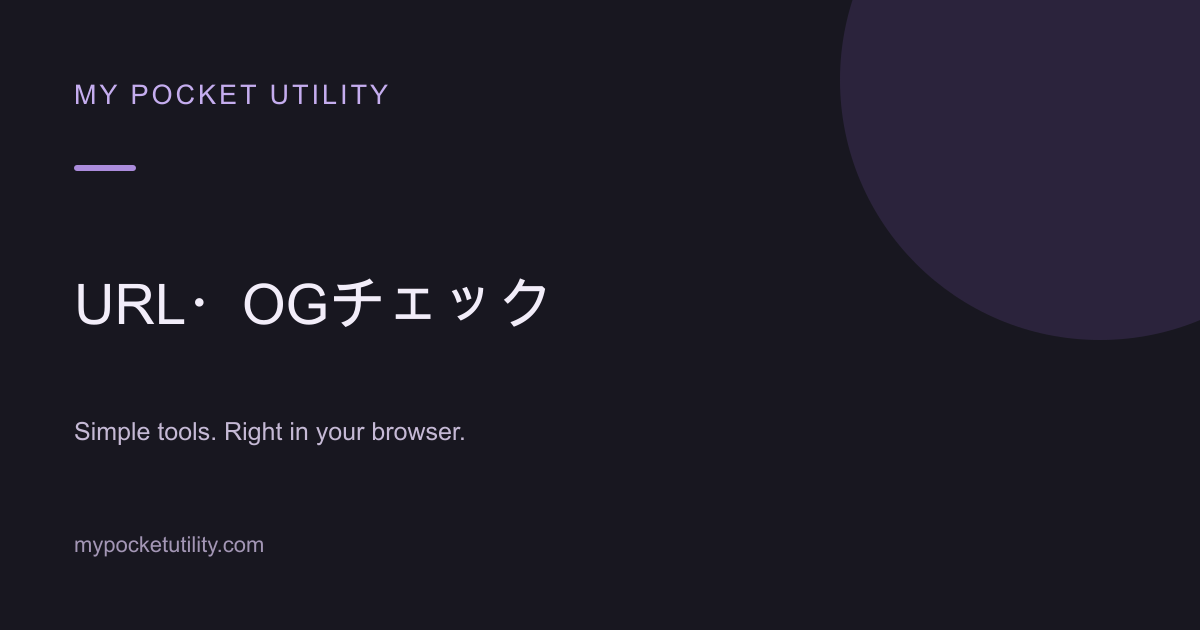
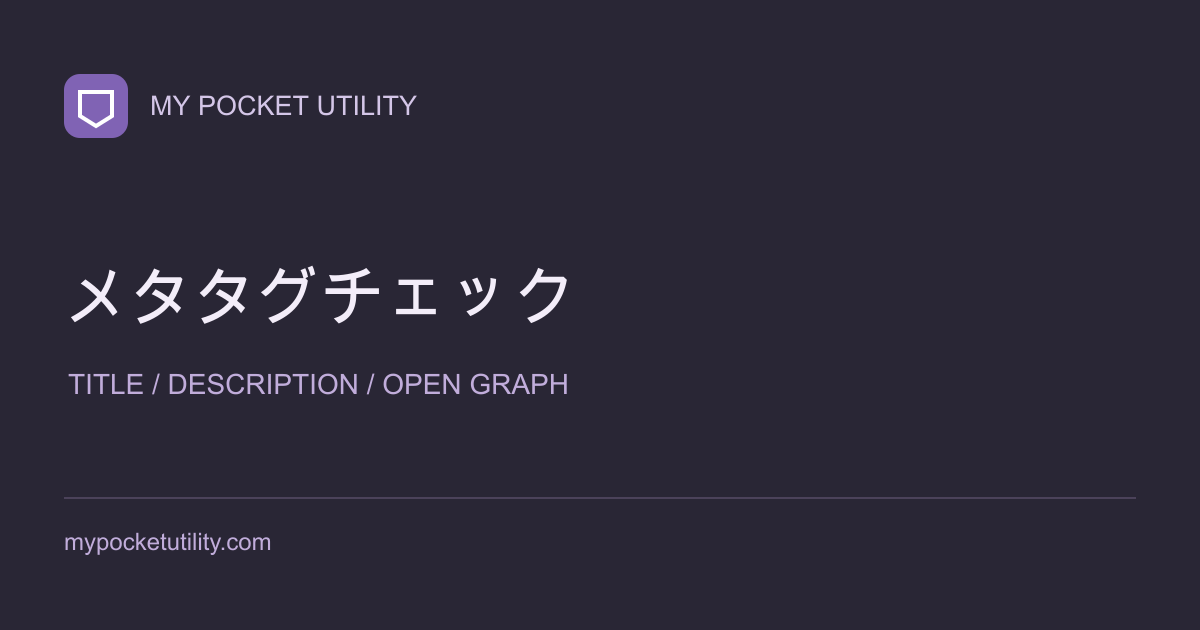
Refine compact UI, add pocket branding and Lorem generator, fix server lookups

diff --git a/src/App.tsx b/src/App.tsx
@@ -1,3 +1,4 @@
+import LoremGenerator from './LoremGenerator';
 import UrlExpander from './UrlExpander';
 import CharacterCounter from './CharacterCounter';
 import UrlLinter from './UrlLinter';
@@ -5,7 +6,7 @@ import ToolDirectory, {FavoriteButton, recordTool, openToolSearch} from './ToolD
 import {rememberLanguage} from './language-preference.mjs';
 import { t as tr, locale, getLanguage } from "./i18n.mjs";
 import { guides, guideHTML } from './guides.mjs';
-import { getRoute, getQuery, routeHref, navigate, installRouting } from './routing.mjs';
+import { getRoute, getQuery, routeHref, siteBase, navigate, installRouting } from './routing.mjs';
 import { useEffect, useState } from 'react';
 import { ArrowRight, ArrowUpRight, ArrowLeft, Search, Image, CalendarDays, Smartphone, ChevronLeft, ChevronRight, Copy, Check, Command, FolderSync, Moon, Sun, Type, Shapes, Coins, Ruler, FileImage, Timer, FileCode2 } from 'lucide-react';
 import Converter from './Converter';
@@ -20,7 +21,7 @@ import {dateLabel} from './i18n.mjs';
 import {normalizeWeekQuery} from './week-input.mjs';
 import { holidayName } from './holidays.mjs';
 import { koreaToday, isoWeek, searchWeek, dateKey, addDays, fromWeek, weeksInYear } from './week.mjs';
-const tools = [{id:'url-expander',name:'단축 URL 풀기',english:'URL EXPANDER',category:'텍스트·경로',text:'최종 주소와 광고·추적 파라미터를 확인하세요.',Icon:Search,color:'blue',tags:['URL','파라미터']},{id:'character-counter',name:'글자수 계산기',english:'CHARACTER COUNTER',category:'텍스트·경로',text:'글자수부터 한글 2바이트 환산·UTF-8 용량까지 한눈에.',Icon:Search,color:'purple',tags:['UTF-8','바이트']},{id:'url-linter',name:'URL·OG 검사',english:'URL LINTER',category:'텍스트·경로',text:'공유 전 제목·설명·이미지를 확인하세요.',Icon:Search,color:'blue',tags:['Open Graph','HTML 검사']},{
+const tools = [{id:'lorem-ipsum',name:'Lorem ipsum 생성기',english:'LOREM IPSUM GENERATOR',category:'텍스트·경로',text:'한글·영어·일본어 예시 문장을 간편하게 생성하세요.',Icon:Type,color:'purple',tags:['KO / EN / JA']},{id:'url-expander',name:'단축 URL 풀기',english:'URL EXPANDER',category:'텍스트·경로',text:'최종 주소와 광고·추적 파라미터를 확인하세요.',Icon:Search,color:'blue',tags:['URL','파라미터']},{id:'character-counter',name:'글자수 계산기',english:'CHARACTER COUNTER',category:'텍스트·경로',text:'글자수부터 한글 2바이트 환산·UTF-8 용량까지 한눈에.',Icon:Search,color:'purple',tags:['UTF-8','바이트']},{id:'url-linter',name:'메타태그 검사',english:'META TAG CHECKER',category:'텍스트·경로',text:'공유 전 제목·설명·이미지를 확인하세요.',Icon:Search,color:'blue',tags:['Open Graph','HTML 검사']},{
   id: 'markdown',
   name: '마크다운 변환',
   english: 'MARKDOWN CONVERTER',
@@ -218,7 +219,7 @@ function WeekNumber({
 
 function Navigation({route,language}:{route:string;language:string}){
  useEffect(()=>{const close=(e:any)=>{if(e.type==='keydown'&&e.key!=='Escape')return;if(e.type==='click'&&e.target.closest('.category-nav')&&!e.target.closest('a'))return;document.querySelectorAll('.category-nav details[open]').forEach(d=>d.removeAttribute('open'))};document.addEventListener('click',close);document.addEventListener('keydown',close);return()=>{document.removeEventListener('click',close);document.removeEventListener('keydown',close)}},[]);
- return <><a className="skip-link" href="#main-content">{tr('본문으로 이동')}</a><header className="site-header"><div className="nav-inner"><a className="logo" href={routeHref()}><span className="logo-mark"><Command size={22}/></span>MY POCKET <span>UTILITY</span><em>BETA</em></a><nav className="category-nav" aria-label={tr('주요 메뉴')}><a href={routeHref()} aria-current={route==='home'?'page':undefined}>{tr('모든 도구')}</a>{['이미지','날짜·시간','텍스트·경로','계산·변환'].map(cat=><details key={cat} onToggle={e=>{if(e.currentTarget.open)document.querySelectorAll('.category-nav details[open]').forEach(d=>{if(d!==e.currentTarget)d.removeAttribute('open')})}}><summary className={tools.find(tool=>tool.id===route)?.category===cat?'active':''}>{tr(cat)}<ChevronRight size={12}/></summary><div className="category-dropdown">{tools.filter(tool=>tool.category===cat).map(tool=><a key={tool.id} href={routeHref(tool.id)} aria-current={route===tool.id?'page':undefined}>{tr(tool.name)}</a>)}</div></details>)}</nav><div className="nav-actions"><button className="nav-search" onClick={openToolSearch} aria-label={tr("도구 검색")}><Search size={18}/></button><ThemeToggle/><label className="language-switch"><span className="sr-only">{tr('언어 선택')}</span><select value={language} aria-label={tr('언어 선택')} onChange={e=>{rememberLanguage(e.target.value);navigate(routeHref(route==='home'?'':route,getQuery(),e.target.value))}}><option value="ko" lang="ko">한국어</option><option value="en" lang="en">English</option><option value="ja" lang="ja">日本語</option></select></label></div></div></header></>;
+ return <><a className="skip-link" href="#main-content">{tr('본문으로 이동')}</a><header className="site-header"><div className="nav-inner"><a className="logo" href={routeHref()}><img className="brand-pocket" src={siteBase()+'icons/pocket-64.png'} width="34" height="34" alt=""/>MY POCKET <span>UTILITY</span><em>BETA</em></a><nav className="category-nav" aria-label={tr('주요 메뉴')}><a href={routeHref()} aria-current={route==='home'?'page':undefined}>{tr('모든 도구')}</a>{['이미지','날짜·시간','텍스트·경로','계산·변환'].map(cat=><details key={cat} onToggle={e=>{if(e.currentTarget.open)document.querySelectorAll('.category-nav details[open]').forEach(d=>{if(d!==e.currentTarget)d.removeAttribute('open')})}}><summary className={tools.find(tool=>tool.id===route)?.category===cat?'active':''}>{tr(cat)}<ChevronRight size={12}/></summary><div className="category-dropdown">{tools.filter(tool=>tool.category===cat).map(tool=><a key={tool.id} href={routeHref(tool.id)} aria-current={route===tool.id?'page':undefined}>{tr(tool.name)}</a>)}</div></details>)}</nav><div className="nav-actions"><button className="nav-search" onClick={openToolSearch} aria-label={tr("도구 검색")}><Search size={18}/></button><ThemeToggle/><label className="language-switch"><span className="sr-only">{tr('언어 선택')}</span><select value={language} aria-label={tr('언어 선택')} onChange={e=>{rememberLanguage(e.target.value);navigate(routeHref(route==='home'?'':route,getQuery(),e.target.value))}}><option value="ko" lang="ko">한국어</option><option value="en" lang="en">English</option><option value="ja" lang="ja">日本語</option></select></label></div></div></header></>;
 }
 
 export default function App() {
@@ -247,7 +248,7 @@ export default function App() {
   }, []);
 
   const selected = tools.find(t => t.id === route);
-  return <div className="site"><Navigation route={route} language={language}/><main className="shell" id="main-content">{tr(route === 'home' ? <ToolDirectory tools={tools}/> : selected ? <><nav className="breadcrumbs" aria-label={tr("탐색 경로")}><a href={routeHref()}>{tr("모든 도구")}</a><span aria-hidden="true">/</span><span aria-current="page">{tr(selected.name)}</span><FavoriteButton id={selected.id}/></nav>{tr(route === 'url-expander' ? <UrlExpander /> : route === 'character-counter' ? <CharacterCounter /> : route === 'url-linter' ? <UrlLinter /> : route === 'markdown' ? <MarkdownConverter /> : route === 'weeknumber' ? <WeekNumber query={query} /> : route === 'path-converter' ? <PathConverter /> : route === 'symbols' ? <Symbols /> : route === 'insta-fonts' ? <InstaFonts /> : route === 'currency' ? <CurrencyConverter /> : route === 'units' ? <UnitConverter /> : route === 'pdf-to-jpg' ? <PdfConverter /> : ['clock','timer','pomodoro'].includes(route) ? null : <><div className="tool-heading"><span className="eyebrow">{tr("IMAGE CONVERTER")}</span><h1>{tr("이미지 변환")}</h1><p>{tr("HEIC·WebP·JPG·PNG 이미지를 원하는 형식으로 변환하세요.")}</p></div><Converter kind={route as 'webp' | 'heic'} key={route} /></>)}</> : <div className="no-results"><h1>{tr("도구를 찾을 수 없어요.")}</h1><a href={routeHref()}>{tr("모든 도구로 돌아가기")}</a></div>)}<div hidden={!['clock','timer','pomodoro'].includes(route)}><ClockTimer mode={['clock','timer','pomodoro'].includes(route)?route:'clock'} showHeading={['clock','timer','pomodoro'].includes(route)}/></div>{tr(guides[route] && <div dangerouslySetInnerHTML={{
+  return <div className="site"><Navigation route={route} language={language}/><main className="shell" id="main-content">{tr(route === 'home' ? <ToolDirectory tools={tools}/> : selected ? <><nav className="breadcrumbs" aria-label={tr("탐색 경로")}><a href={routeHref()}>{tr("모든 도구")}</a><span aria-hidden="true">/</span><span aria-current="page">{tr(selected.name)}</span><FavoriteButton id={selected.id}/></nav>{tr(route === 'url-expander' ? <UrlExpander /> : route === 'character-counter' ? <CharacterCounter /> : route === 'lorem-ipsum' ? <LoremGenerator /> : route === 'url-linter' ? <UrlLinter /> : route === 'markdown' ? <MarkdownConverter /> : route === 'weeknumber' ? <WeekNumber query={query} /> : route === 'path-converter' ? <PathConverter /> : route === 'symbols' ? <Symbols /> : route === 'insta-fonts' ? <InstaFonts /> : route === 'currency' ? <CurrencyConverter /> : route === 'units' ? <UnitConverter /> : route === 'pdf-to-jpg' ? <PdfConverter /> : ['clock','timer','pomodoro'].includes(route) ? null : <><div className="tool-heading"><span className="eyebrow">{tr("IMAGE CONVERTER")}</span><h1>{tr("이미지 변환")}</h1><p>{tr("HEIC·WebP·JPG·PNG 이미지를 원하는 형식으로 변환하세요.")}</p></div><Converter kind={route as 'webp' | 'heic'} key={route} /></>)}</> : <div className="no-results"><h1>{tr("도구를 찾을 수 없어요.")}</h1><a href={routeHref()}>{tr("모든 도구로 돌아가기")}</a></div>)}<div hidden={!['clock','timer','pomodoro'].includes(route)}><ClockTimer mode={['clock','timer','pomodoro'].includes(route)?route:'clock'} showHeading={['clock','timer','pomodoro'].includes(route)}/></div>{tr(guides[route] && <div dangerouslySetInnerHTML={{
         __html: guideHTML(route,language)
       }} />)}{selected&&<section className="related-tools"><h2>{tr("관련 도구")}</h2><div>{tools.filter(tool=>tool.category===selected.category&&tool.id!==route).map(tool=><a key={tool.id} href={routeHref(tool.id)}>{tr(tool.name)}</a>)}</div></section>}</main><footer className="site-footer"><div><a href={routeHref()}>MY POCKET UTILITY</a><span>{tr("작은 도구, 더 편리한 일상.")}</span></div><span>© {tr(today.getUTCFullYear())} MY POCKET UTILITY</span></footer></div>;
 }

diff --git a/src/UrlLinter.tsx b/src/UrlLinter.tsx
@@ -8,8 +8,8 @@ export default function UrlLinter(){
  const reset=()=>{setResult(null);setError('');setImageOpen(false);setImageInfo('')};
  const inspect=(text:string,source:string)=>{setImageOpen(false);setImageInfo('');setResult(inspectHTML(text,source,document));setError('')};
  const load=async()=>{reset();const address=httpURL(url);if(!address){setError('http 또는 https 페이지 주소를 입력해 주세요.');return}setBusy(true);const c=new AbortController();controller.current=c;const timer=setTimeout(()=>c.abort(),15000);try{const page=await fetchPage(address,c.signal);setHtml(page.html);inspect(page.html,page.url)}catch(e){setError(e instanceof TypeError?'외부 접근이 차단되었거나 네트워크 오류가 발생했습니다. 페이지 소스 HTML을 붙여넣어 검사해 주세요.':(e as Error).name==='AbortError'?'조회 시간이 초과되었습니다. HTML로 검사해 주세요.':(e as Error).message)}finally{clearTimeout(timer);setBusy(false)}};
- return <><div className="tool-heading"><span className="eyebrow">URL LINTER</span><h1>{tr('URL·OG 검사')}</h1><p>{tr('공유 전에 제목·설명·이미지와 메타 태그를 확인하세요.')}</p></div>
- <section className="og-input"><form className="url-form" onSubmit={e=>{e.preventDefault();void load()}}><input type="url" aria-label={tr('검사할 페이지 URL')} placeholder="https://example.com/page" value={url} disabled={busy} onChange={e=>{setUrl(e.target.value);reset()}}/><button disabled={busy||!url.trim()}>{tr(busy?'조회 중…':'URL 검사')}</button></form><p className="og-hint">{tr('브라우저가 읽을 수 있는 URL만 조회합니다. 접근이 차단되면 아래에 페이지 소스 HTML을 넣어주세요.')}</p>
+ return <><div className="tool-heading"><span className="eyebrow">META TAG CHECKER</span><h1>{tr('메타태그 검사')}</h1><p>{tr('공유 전에 제목·설명·이미지와 메타 태그를 확인하세요.')}</p></div>
+ <section className="og-input"><form className="url-form" onSubmit={e=>{e.preventDefault();void load()}}><input type="url" aria-label={tr('검사할 페이지 URL')} placeholder="https://example.com/page" value={url} disabled={busy} onChange={e=>{setUrl(e.target.value);reset()}}/><button disabled={busy||!url.trim()}>{tr(busy?'조회 중…':'URL 검사')}</button></form><p className="og-hint">{tr('서버에서 공개 페이지를 조회합니다. 로그인·봇 차단 페이지는 HTML을 붙여넣어 검사하세요.')}</p>
  <label htmlFor="og-html">{tr('HTML 붙여넣기')}</label><textarea id="og-html" value={html} disabled={busy} spellCheck={false} placeholder={'<meta property="og:title" content="...">'} onChange={e=>{setHtml(e.target.value);reset()}}/>
  <div className="og-actions"><button disabled={busy||!html.trim()} onClick={()=>{reset();try{if(url.trim()&&!httpURL(url))throw Error('http 또는 https 페이지 주소를 입력해 주세요.');inspect(html,httpURL(url))}catch(e){setError((e as Error).message)}}}>{tr('HTML 검사')}</button><button disabled={busy} onClick={()=>input.current?.click()}>{tr('HTML 파일 열기')}</button><button disabled={busy} onClick={()=>{setHtml('<title>MY POCKET UTILITY</title>\n<meta property="og:title" content="MY POCKET UTILITY">\n<meta property="og:description" content="Everyday tools in your browser.">\n<meta property="og:image" content="https://mypocketutility.com/og/en-home.png">\n<meta property="og:url" content="https://mypocketutility.com/">\n<meta property="og:type" content="website">\n<link rel="canonical" href="https://mypocketutility.com/">');setUrl('https://mypocketutility.com/');reset()}}>{tr('예시 불러오기')}</button><button disabled={busy} onClick={()=>{setHtml('');setUrl('');reset()}}>{tr('초기화')}</button></div>
  <input hidden ref={input} type="file" accept=".html,.htm,text/html" onChange={async e=>{const file=e.target.files?.[0];e.target.value='';if(!file)return;reset();if(file.size>MAX_HTML_BYTES){setError('HTML은 2MB 이하로 입력해 주세요.');return}try{setHtml(await file.text())}catch{setError('파일을 읽을 수 없습니다.')}}}/>

diff --git a/src/ClockTimer.tsx b/src/ClockTimer.tsx
@@ -332,7 +332,7 @@ export default function ClockTimer({showHeading=true,mode='clock'}:{showHeading?
               setError('전체화면 전환에 실패했습니다.');
             }
           }}><Maximize size={16} />{tr("전체화면")}</button></div></div>
- {tr(tab === 'clock' ? <div className="clock-view"><div className="clock-options"><label>{tr('서버 동기화')}<select value={source} onChange={e=>setSource(e.target.value)}><option value="timeapi">TimeAPI.io</option><option value="naver">{tr('네이버 API')}</option><option value="custom">{tr('서버 주소 입력')}</option></select></label><label>{tr("기준 도시")}<select value={zone} onChange={e => setZone(e.target.value)}>{tr(zones.map(([v, n]) => <option key={v} value={v}>{tr(n)}</option>))}</select></label><label><input type="checkbox" checked={hour12} onChange={e => setHour12(e.target.checked)} />{tr("12시간 표시")}</label></div>{source==='custom'&&<form className="url-form" onSubmit={e=>{e.preventDefault();setServerURL(address)}}><input type="url" required value={address} aria-label={tr('서버 주소')} placeholder="https://example.com/" onChange={e=>setAddress(e.target.value)}/><button>{tr('서버 시간 조회')}</button></form>}{source!=='timeapi'&&<p className="clock-caption">{tr('HTTP Date 헤더 기준 · 초 단위 정밀도. 외부 접근과 Date 헤더 공개를 허용한 서버만 조회할 수 있습니다.')}</p>}{server.error&&<p role="alert">{tr(server.error)}</p>}<p className="clock-caption">{tr(new Intl.DateTimeFormat(locale(), {
+ {tr(tab === 'clock' ? <div className="clock-view"><div className="clock-options"><label>{tr('서버 동기화')}<select value={source} onChange={e=>setSource(e.target.value)}><option value="timeapi">TimeAPI.io</option><option value="naver">{tr('네이버 API')}</option><option value="custom">{tr('서버 주소 입력')}</option></select></label><label>{tr("기준 도시")}<select value={zone} onChange={e => setZone(e.target.value)}>{tr(zones.map(([v, n]) => <option key={v} value={v}>{tr(n)}</option>))}</select></label><label><input type="checkbox" checked={hour12} onChange={e => setHour12(e.target.checked)} />{tr("12시간 표시")}</label></div>{source==='custom'&&<form className="url-form" onSubmit={e=>{e.preventDefault();setServerURL(address)}}><input type="url" required value={address} aria-label={tr('서버 주소')} placeholder="https://example.com/" onChange={e=>setAddress(e.target.value)}/><button>{tr('서버 시간 조회')}</button></form>}{source!=='timeapi'&&<p className="clock-caption">{tr(source==='naver'?'네이버 서버의 HTTP Date 기준 · 초 단위 정밀도이며 네트워크 오차가 있을 수 있습니다.':'HTTP Date 헤더 기준 · 초 단위 정밀도. 외부 접근과 Date 헤더 공개를 허용한 서버만 조회할 수 있습니다.')}</p>}{server.error&&<p role="alert">{tr(server.error)}</p>}<p className="clock-caption">{tr(new Intl.DateTimeFormat(locale(), {
             timeZone: zone,
             dateStyle: 'full'
           }).format(server.now))}</p><div className="clock-digits">{tr(clock)}</div><div className="clock-sync"><span role="status">{tr(syncLabel)}</span><button disabled={server.status === 'syncing'} onClick={() => void server.sync()}><RefreshCw size={14} />{tr("재동기화")}</button></div><p className="clock-caption">{tr(server.status === 'synced' ? `왕복 응답 ${server.rtt}ms · 5분마다 동기화 · 네트워크 지연에 따른 오차 가능` : '서버 연결 상태를 확인해 주세요.')}</p></div> : <div className="timer-view"><p className="clock-caption">{tr(tab === 'pomodoro' ? `${phaseNames[info.phase]} · 집중 ${info.completed}회 완료` : '남은 시간')}</p><div className={'clock-digits ' + (active.state.status === 'done' ? 'timer-done' : '')} role="timer">{tr(display(shownLeft))}</div><progress className="timer-progress" max={shownTotal} value={shownLeft} aria-label={tr("남은 시간")} />

diff --git a/src/styles.css b/src/styles.css
@@ -124,3 +124,26 @@ html[data-theme=dark] body{background:#15161e;color:#e6e3ee}
 :root{--border:#c7bfd3;--muted:#766984;--accent:#8063b4}[data-theme=dark]{--border:#61566f;--muted:#b6adc7;--accent:#8063b4}.site-header .logo{font-size:17px;gap:5px}.logo-mark{margin-right:6px}
 .url-result{overflow-wrap:anywhere;white-space:pre-wrap;padding:16px;border:1px solid var(--border);border-radius:8px}.url-table-wrap{overflow:auto}.url-params{width:100%;border-collapse:collapse;text-align:left}.url-params th,.url-params td{border-bottom:1px solid var(--border);padding:14px;vertical-align:top;overflow-wrap:anywhere;max-width:380px}.url-params small{display:block;color:var(--muted);margin-top:6px}.count-grid{display:grid;grid-template-columns:repeat(3,minmax(0,1fr));gap:12px;margin-top:24px}.count-grid>div{padding:20px;border:1px solid var(--border);border-radius:12px}.count-grid dt{font-size:12px;color:var(--muted)}.count-grid dd{font-size:30px;font-weight:700;margin:10px 0 0;overflow-wrap:anywhere}@media(max-width:650px){.count-grid{grid-template-columns:repeat(2,minmax(0,1fr))}.count-grid>div{padding:14px}.count-grid dd{font-size:24px}}
 .url-chain{margin:16px 0;padding:12px;border:1px solid var(--border);border-radius:8px}.url-chain summary{cursor:pointer}.url-chain li{overflow-wrap:anywhere;padding:8px 0;line-height:1.7}.url-chain code{font-weight:700;color:var(--accent)}
+/* Keep the entire navigation block centered; parent min-height must not add bottom-only space. */
+.site-header{min-height:0;height:auto}.site-header .nav-inner{height:auto;min-height:88px;padding-block:16px;align-items:center}.site-header .category-nav,.site-header .category-nav>a{height:auto}.site-header .nav-actions{align-self:center}@media(max-width:600px){.site-header .nav-inner{min-height:0;padding-block:14px}}
+
+/* Compact, left-aligned page introductions with a softer canvas. */
+html body{background:#f7f6fa}
+html[data-theme=dark] body{background:#292635}
+.shell :is(h1,h2,h3){text-align:left}
+.tool-heading,.intro,.hub-hero{background:transparent;text-align:left;padding:16px 0 18px}
+.tool-heading .eyebrow,.intro .eyebrow{margin-bottom:6px}
+.tool-heading h1,.intro h1{margin:4px 0 8px}
+.tool-heading p,.intro p{margin:0;line-height:1.65}
+.hero-copy h1{margin-top:6px}
+.hero-copy>p{margin:10px 0}
+.breadcrumbs{margin:14px 0 6px}
+.directory-bar{padding-bottom:14px;margin-bottom:16px}
+.tool-guide{margin:24px 0 16px;padding-top:18px}
+.related-tools{margin-top:20px;padding:18px 0}
+.og-input,.og-results{padding:18px;margin-bottom:16px}
+@media(max-width:600px){.tool-heading,.intro,.hub-hero{padding:12px 0 16px}.breadcrumbs{margin-top:12px}.og-input,.og-results{padding:14px}}
+
+.lorem-options{display:flex;flex-wrap:wrap;gap:16px}.lorem-options label{display:grid;gap:8px;font-size:13px;flex:1;min-width:140px}.lorem-options input,.lorem-options select{padding:10px;border:1px solid var(--border);border-radius:8px;background:transparent;color:inherit;font:inherit}.lorem-options option{color:#302b3b;background:white}
+
+.brand-pocket{display:block;flex-shrink:0;border-radius:9px;margin-right:6px;object-fit:contain}

diff --git a/src/useServerTime.ts b/src/useServerTime.ts
@@ -12,12 +12,13 @@ export default function useServerTime(source='timeapi',address=''){
    const url=new URL(source==='timeapi'?'https://timeapi.io/api/time/current/zone?timeZone=UTC':source==='naver'?'https://api.searchad.naver.com/':address);
    if(url.protocol!=='https:'||url.username||url.password)throw Error('HTTPS 서버 주소를 입력해 주세요.');
    const start=performance.now();
-   const res=await fetch(url.href,{method:source==='timeapi'?'GET':'HEAD',mode:'cors',cache:'no-store',credentials:'omit',referrerPolicy:'no-referrer',signal:ctl.signal});
+   const res=source==='naver'?await fetch('/api/naver-time',{method:'POST',headers:{'Content-Type':'application/json'},body:'{}',cache:'no-store',credentials:'omit',signal:ctl.signal}):await fetch(url.href,{method:source==='timeapi'?'GET':'HEAD',mode:'cors',cache:'no-store',credentials:'omit',referrerPolicy:'no-referrer',signal:ctl.signal});
    let next;
    if(source==='timeapi'){if(!res.ok)throw Error();next=serverSample(await res.json(),start,performance.now())}
+   else if(source==='naver'){if(!res.ok)throw Error();const data=await res.json();next=httpDateSample(data.date,data.age,start,performance.now())}
    else next=httpDateSample(res.headers.get('date'),res.headers.get('age'),start,performance.now());
    if(request.current===ctl&&!ctl.signal.aborted){sample.current=next;setNow(next.epoch);setRtt(Math.round(next.rtt));setStatus('synced')}
-  }catch(e){if(request.current===ctl){setStatus(sample.current?'stale':'failed');setError(source==='timeapi'?'서버 연결 상태를 확인해 주세요.':'서버 시간을 읽을 수 없습니다. HTTPS 주소, 외부 접근 허용 및 Date 헤더 공개 설정을 확인해 주세요.')}}
+  }catch(e){if(request.current===ctl){setStatus(sample.current?'stale':'failed');setError(source==='timeapi'?'서버 연결 상태를 확인해 주세요.':source==='naver'?'네이버 시각을 불러오지 못했습니다. 잠시 후 재동기화해 주세요.':'서버 시간을 읽을 수 없습니다. HTTPS 주소, 외부 접근 허용 및 Date 헤더 공개 설정을 확인해 주세요.')}}
   finally{clearTimeout(timeout);if(request.current===ctl)request.current=null}
  },[source,address]);
  useEffect(()=>{sample.current=null;setNow(Date.now());setRtt(0);setError('');void sync();const tick=setInterval(()=>setNow(sample.current?synchronizedNow(sample.current,performance.now()):Date.now()),200);const refresh=setInterval(()=>void sync(),300000);const visible=()=>{if(document.visibilityState==='visible')void sync()};document.addEventListener('visibilitychange',visible);return()=>{request.current?.abort();request.current=null;clearInterval(tick);clearInterval(refresh);document.removeEventListener('visibilitychange',visible)}},[sync]);

diff --git a/src/LoremGenerator.tsx b/src/LoremGenerator.tsx
@@ -1,0 +1,13 @@
+import {useState} from 'react';
+import {getLanguage,t as tr} from './i18n.mjs';
+import {generateLorem} from './lorem.mjs';
+export default function LoremGenerator(){
+ const [language,setLanguage]=useState(getLanguage()),[paragraphs,setParagraphs]=useState(3),[sentences,setSentences]=useState(4),[text,setText]=useState(()=>generateLorem(getLanguage())),[status,setStatus]=useState('');
+ const generate=(lang=language,p=paragraphs,s=sentences)=>{setText(generateLorem(lang,p,s));setStatus('')};
+ const save=()=>{const url=URL.createObjectURL(new Blob([text],{type:'text/plain;charset=utf-8'}));const a=document.createElement('a');a.href=url;a.download='lorem-'+language+'.txt';a.click();setTimeout(()=>URL.revokeObjectURL(url),1000)};
+ return <><div className="tool-heading"><span className="eyebrow">LOREM IPSUM GENERATOR</span><h1>{tr('Lorem ipsum 생성기')}</h1><p>{tr('한글·영어·일본어 예시 문장을 간편하게 생성하세요.')}</p></div><section className="og-input"><div className="lorem-options">
+ <label>{tr('문장 언어')}<select value={language} onChange={e=>{setLanguage(e.target.value);generate(e.target.value)}}><option value="ko">{tr('한국어')}</option><option value="en">English</option><option value="ja">日本語</option></select></label>
+ <label>{tr('문단 수')}<input type="number" min="1" max="20" value={paragraphs} onChange={e=>{const n=Math.max(1,Math.min(20,Number(e.target.value)||1));setParagraphs(n);generate(language,n)}}/></label>
+ <label>{tr('문단당 문장 수')}<input type="number" min="1" max="10" value={sentences} onChange={e=>{const n=Math.max(1,Math.min(10,Number(e.target.value)||1));setSentences(n);generate(language,paragraphs,n)}}/></label></div>
+ <textarea aria-label={tr('생성된 텍스트')} value={text} readOnly rows={12}/><div className="og-actions"><button onClick={()=>generate()}>{tr('다시 생성')}</button><button onClick={async()=>{try{await navigator.clipboard.writeText(text);setStatus('복사했어요.')}catch{setStatus('복사하지 못했습니다. 텍스트를 직접 선택해 주세요.')}}}>{tr('전체 복사')}</button><button onClick={save}>{tr('TXT 다운로드')}</button></div><p role="status" className="og-hint">{tr(status)}</p></section></>;
+}

diff --git a/index.html b/index.html
@@ -1,2 +1,3 @@
 <!doctype html><html lang="ko"><head>
+<meta name="naver-site-verification" content="a35bf882b515b12fcc10b239dcc8be5aaeb63caf" />
 <script>try{var t=localStorage.getItem('pocket-theme');document.documentElement.dataset.theme=t==='dark'||(!t&&matchMedia('(prefers-color-scheme: dark)').matches)?'dark':'light'}catch(e){}</script><meta charset="UTF-8"><meta name="viewport" content="width=device-width,initial-scale=1"><title>MY POCKET UTILITY — 이미지 변환과 한국어 주차 검색</title><meta name="description" content="WebP·HEIC 이미지 변환과 한국어 위크넘버. 52주차, 12월 23일, 내년 추석을 검색하고 정확한 날짜와 주차를 확인하세요."><meta name="theme-color" content="#7561cd"><link rel="stylesheet" href="entry.css"></head><body><div id="root"></div><script src="entry.js"></script></body></html>

diff --git a/docs/QA-2026-11-16.md b/docs/QA-2026-11-16.md
@@ -37,3 +37,13 @@
 - 네이버·임의 서버 시각과 OG URL/이미지 URL 가져오기는 여전히 브라우저 CORS 허용 여부에 영향을 받는다. 서버 중계는 단축 URL 조회에만 적용한다.
 - 단축 URL 도구는 HTTP 리다이렉트를 확인하며 로그인·보안 확인·JavaScript 전환을 실행하지 않는다. vo.la는 테스트용 리다이렉트 응답으로 검증했으며 실제 단축 링크는 제공되지 않았다.
 - 실제 브라우저 알림은 권한과 OS 설정에 의존하며, 탭 종료·기기 절전 상태에서는 보장하지 않는다.
+
+
+## Follow-up: compact UI, metadata inspection, Naver time, Lorem ipsum and branding
+
+- Titles align left; introduction and section spacing reduced; near-black page canvas changed to a softer purple-gray in dark mode. Header inner box owns symmetric vertical padding.
+- Naver HTTP Date and metadata HTML lookup use same-origin Worker routes with shared rate limits. Naver Date is second-resolution, not a certified time service. Custom server time remains browser/CORS-dependent.
+- Metadata fetch validates public DNS at every redirect, limits streamed HTML to 2MB, and reports blocked pages separately. HTML parsing remains inert in the browser.
+- Local Korean/English/Japanese sample text supports paragraph/sentence controls, copy and TXT download. Route and SEO assets included in all three languages (54 canonical pages).
+- Generated pocket artwork supplies GNB PNG, 16/32/48 ICO and mobile home-screen icon. Naver verification meta tag added to static HTML.
+- Validation: automated tests and production build; Worker deploy dry run. Browser visual checks remain unavailable in this session, so pixel alignment and native clipboard/download interactions are not claimed as visually verified.

diff --git a/HOSTING.md b/HOSTING.md
@@ -36,7 +36,7 @@ After deploying, verify /entry.js, /entry.css, /sitemap.xml and localized tool p
 
 ## URL resolver Worker
 
-`wrangler.jsonc` now includes `main: worker/index.mjs`, the `ASSETS` binding, and API-only Worker-first routing. Keep build command `npm run build` and deploy command `npx wrangler deploy`. Do not use an assets-only deploy override. Static pages continue to be served directly. `/api/expand-url` alone handles URL lookups with a POST JSON body.
+`wrangler.jsonc` now includes `main: worker/index.mjs`, the `ASSETS` binding, and API-only Worker-first routing. Keep build command `npm run build` and deploy command `npx wrangler deploy`. Do not use an assets-only deploy override. Static pages continue to be served directly. `/api/expand-url`, `/api/inspect-url`, and `/api/naver-time` handle POST JSON requests. They share the rate limiter. HTML inspection is capped at 2MB; Naver time reads only the fixed Search Ads root HTTP Date.
 
 The configured `URL_RATE_LIMITER` binding is deployed with Wrangler (4.36+). This change does not subscribe to Workers Paid or enable a paid third-party URL API. Confirm the account remains on Workers Free in the dashboard if zero overage billing is required; the daily free quota is shared across the account. Rate limiting reduces repeated outbound work but rejected requests still count as Worker invocations. No strict global daily budget is implemented.
 
